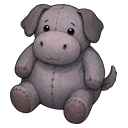
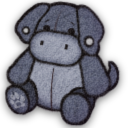
Plushie update

diff --git a/docs/homesteader.html b/docs/homesteader.html
@@ -422,15 +422,15 @@
         <img src="img/DiggoPlushie.png" alt="Diggo the plushie">
         <div>
           <h3>Diggo the plushie</h3>
-          <div class="stat">+20 beauty &middot; cuddly &middot; from the homestead supplier caravan</div>
+          <div class="stat">+20 beauty &middot; cuddly &middot; 20 cloth &middot; homestead supplier caravan</div>
           <p>A hopelessly round plushie &mdash; part hippo, part dog, entirely chonky. Colonists flop against its belly to snuggle away their worries. <i>Congrats to a dognamedKats for 1k followers!</i></p>
         </div>
       </div>
       <div class="card wide">
-        <img src="img/SharkPlushie.png" alt="Shark plushie">
+        <img src="img/SharkPlushie.png" alt="Sharkira the plushie">
         <div>
-          <h3>Shark plushie</h3>
-          <div class="stat">+20 beauty &middot; cuddly &middot; 30 cloth &middot; homestead supplier caravan</div>
+          <h3>Sharkira the plushie</h3>
+          <div class="stat">+20 beauty &middot; cuddly &middot; 20 cloth &middot; homestead supplier caravan</div>
           <p>A huggably round shark with button eyes and harmless fabric teeth. Menacing to absolutely no one. Same meditative cuddling as Diggo &mdash; Diggo&rsquo;s favorite ocean friend.</p>
         </div>
       </div>
@@ -510,7 +510,7 @@
         <div>
           <h3>Homestead supplier caravan</h3>
           <div class="stat">visits outlander towns' allies</div>
-          <p>A trader stocked with preserved foods, farm goods, seeds, and the occasional <b>Diggo</b> or <b>shark plushie</b>.</p>
+          <p>A trader stocked with preserved foods, farm goods, seeds, and the occasional <b>Diggo</b> or <b>Sharkira</b> plushie.</p>
         </div>
       </div>
     </div>

diff --git a/Homesteader/CHANGELOG.md b/Homesteader/CHANGELOG.md
@@ -5,13 +5,14 @@ All notable changes to Homesteader are documented here.
 ## [Unreleased]
 
 ### Changed
-- **Diggo the plushie** — updated hippo-dog sprite art.
+- Renamed **shark plushie** to **Sharkira the plushie** (in-game label and docs).
+- **Diggo the plushie** — updated hippo-dog sprite art; docs page image refreshed to match. Build cost lowered to **20 cloth** (same as Sharkira).
 - GitHub Pages catalog (`docs/homesteader.html`) updated with shark plushie, 27 monuments/statues, orchard pantry cards, and a full food item table.
 
 ### Added
 - **27 monuments (two styles):** build either a golden or a harvest-stone statue of the number 27. Both share the same aura — colonists within range gain +27 mood — so you pick the look that fits your yard. Unlocked with homestead comforts research; golden costs gold and granite, harvest costs granite and hay.
 - **27 statue + grand 27 statue:** gilded dripping-27 sculptures on vanilla-style stone plinths (1×1 and 2×2). Quality-scaled beauty via `FurnitureWithQualityBase`; +27 mood aura to pawns in range (same reach as the monuments).
-- **Shark plushie:** a chonky stuffed shark sewn from cloth. Same comforts as Diggo — high beauty (scales with quality), sittable, and cuddling for meditative recreation. Buildable from the start; homestead supplier caravans occasionally carry one.
+- **Sharkira the plushie:** a chonky stuffed shark sewn from cloth. Same comforts as Diggo — high beauty (scales with quality), sittable, and cuddling for meditative recreation. Buildable from the start; homestead supplier caravans occasionally carry one.
 
 ### Changed
 - Regenerated orchard and beeswax sprites (maple sap, maple syrup, raw apples, raw cherries, beeswax, beeswax candle) to match the painterly Homesteader art style with proper transparent backgrounds.
